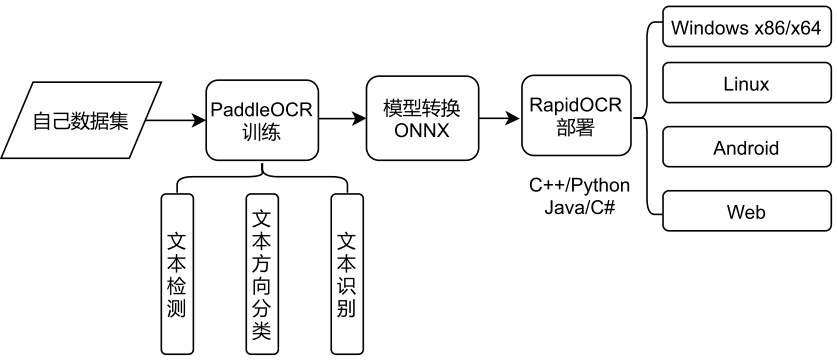
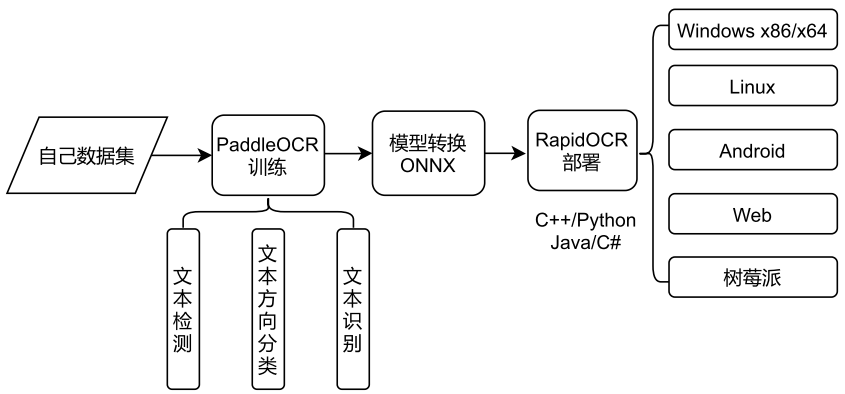
update README

diff --git a/README.md b/README.md
@@ -13,7 +13,8 @@
 - [RapidOCR (捷智OCR)](#rapidocr-捷智ocr)
   - [简介](#简介)
   - [近期更新](#近期更新)
-      - [🍺 2021-06-20 update](#-2021-06-20-update)
+      - [💖 2021-07-04 update](#-2021-07-04-update)
+      - [2021-06-20 update](#2021-06-20-update)
       - [2021-06-10 update](#2021-06-10-update)
       - [2021-06-08 update](#2021-06-08-update)
       - [2021-03-24 update](#2021-03-24-update)
@@ -36,6 +37,7 @@
 
 
 ## 简介
+- 💖目前已知**运行速度最快、支持最广**的OCR
 - 完全开源免费并支持离线部署的多平台多语言OCR SDK
 - **中文广告**： 欢迎加入我们的QQ群下载模型及测试程序，qq群号：887298230
 - **缘起**：百度paddlepaddle工程化不是太好，为了方便大家在各种端上进行ocr推理，我们将它转换为onnx格式，使用``python/c++/java/swift/c#`` 将它移植到各个平台。
@@ -45,8 +47,11 @@
 - 基于百度的开源PaddleOCR 模型及训练，任何人可以使用本推理库，也可以根据自己的需求使用百度的paddlepaddle 框架进行模型优化。
 
 ## 近期更新
+#### 💖 2021-07-04 update
+- 目前仓库下的python程序已经可以在树莓派4B上，成功运行，详细信息请进群，询问群主
+- 更新整体结构图
 
-#### 🍺 2021-06-20 update
+#### 2021-06-20 update
 - 优化ocrweb中识别结果显示，同时添加识别动图演示
 - 更新`datasets`目录，添加一些常用数据库链接(搬运一下^-^)
 - 更新[FAQ](./FAQ.md)
